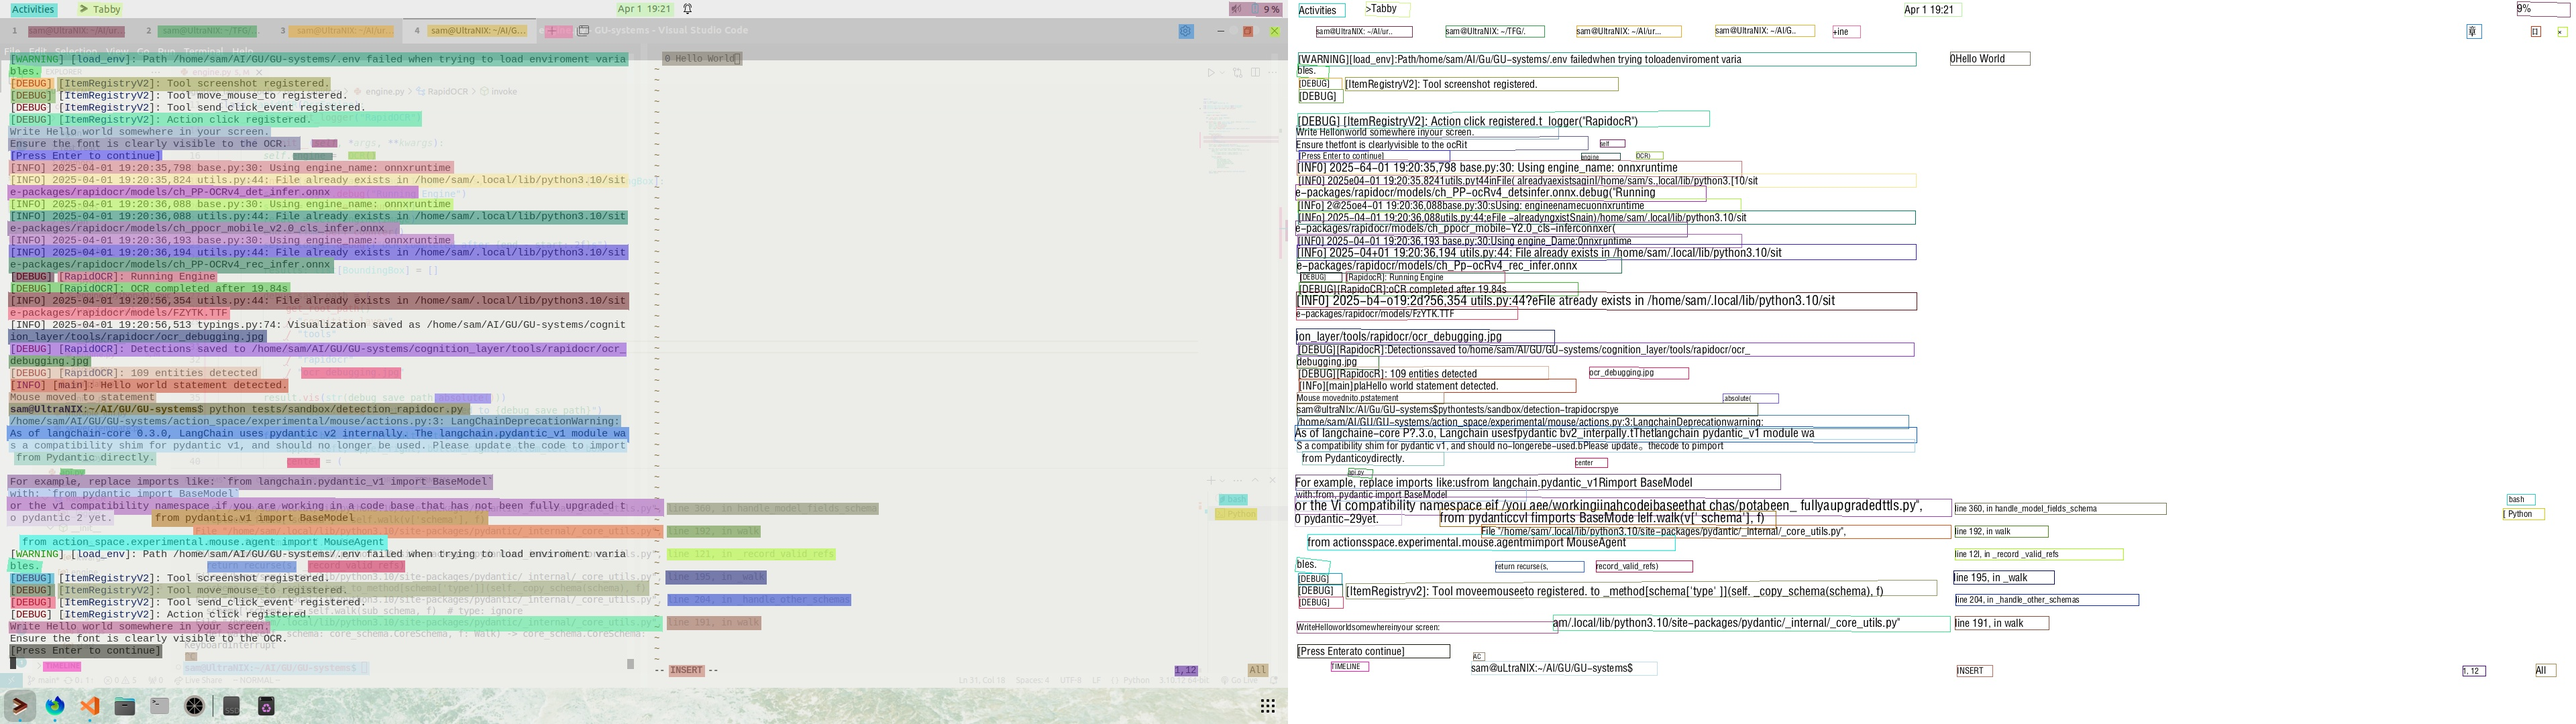
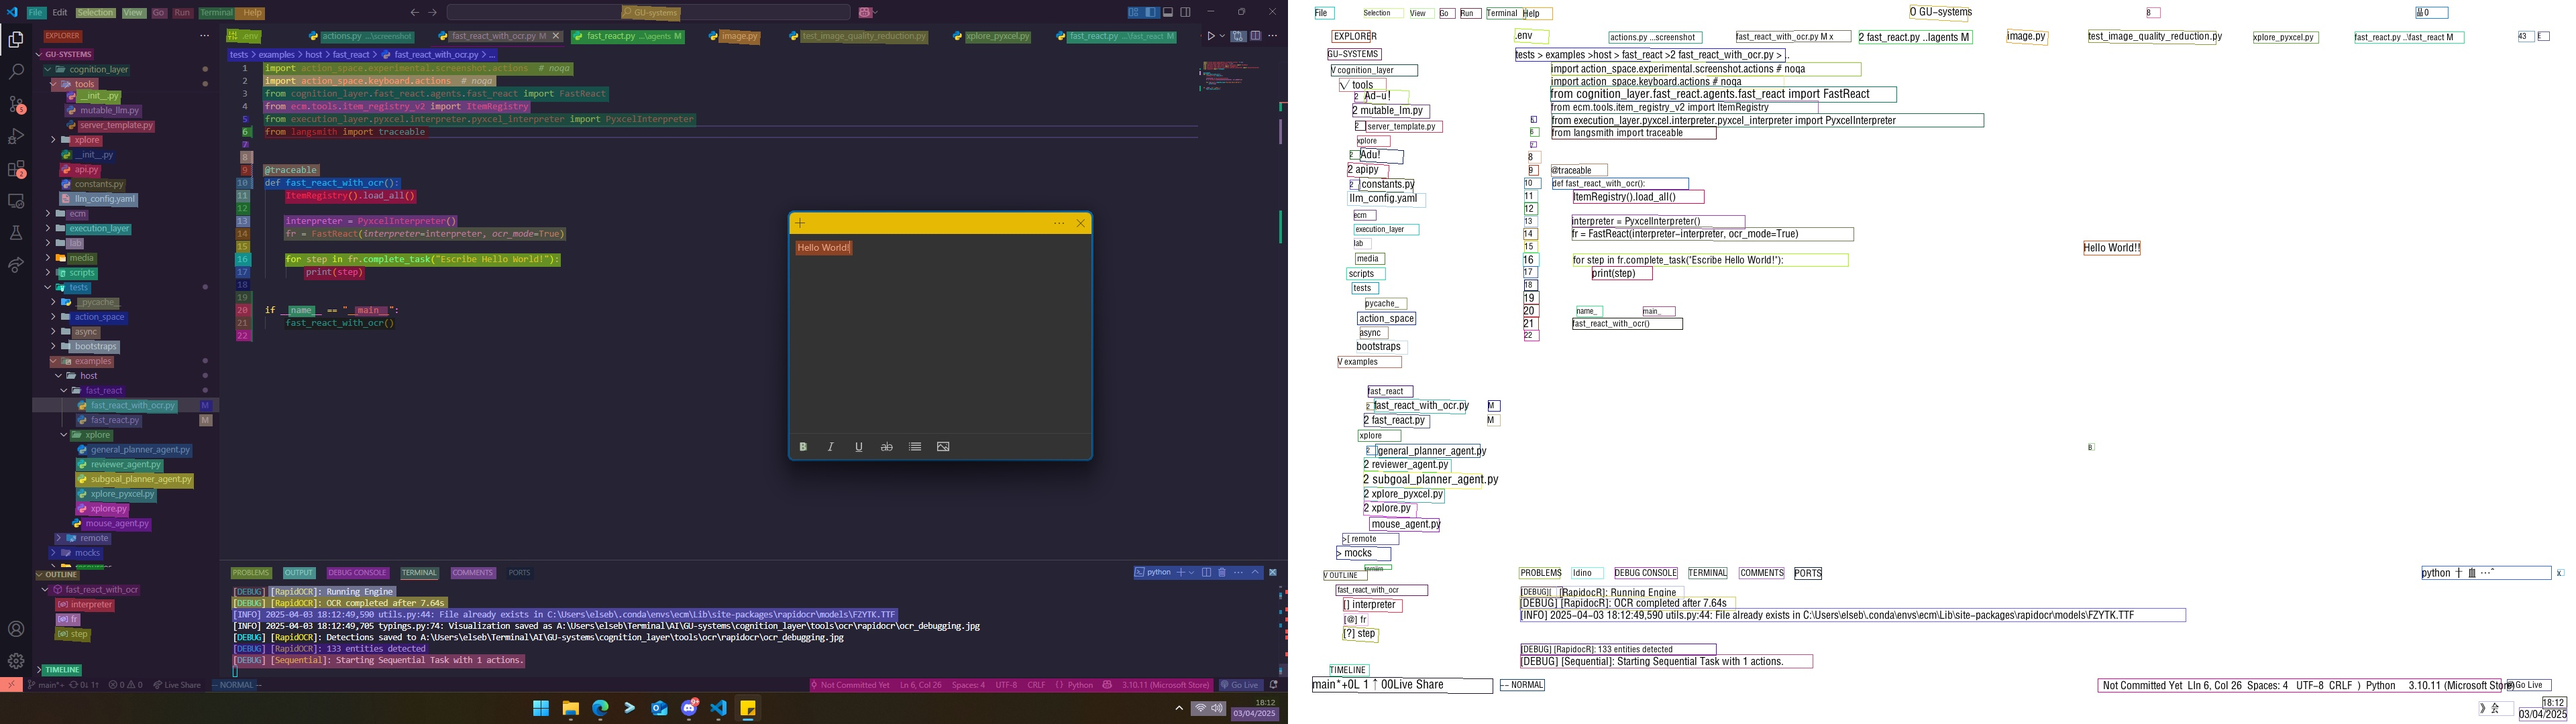
Added quality selection for ImageMessage

diff --git a/cognition_layer/fast_react/agents/fast_react.py b/cognition_layer/fast_react/agents/fast_react.py
@@ -15,6 +15,7 @@ from cognition_layer.fast_react.agents.prompt import FR_PROMPT
 from cognition_layer.memory.simple import SimpleCognitiveMemory
 from cognition_layer.planex.utils.format import format_tool
 from cognition_layer.tools.mutable_llm import MutableChatLLM
+from cognition_layer.tools.ocr.engine import OCR
 from dataclasses import dataclass
 from ecm.exelent.builder import ExelentBuilder
 from ecm.exelent.parser import ParsedTask
@@ -60,6 +61,8 @@ class FastReact:
         interpreter: Interpreter = None,
         registry: ItemRegistry = ItemRegistry(),
         memory_capacity: int = 10,
+        ocr_mode: bool = False,
+        ocr_image_period: int = 3,
     ):
         """
         Initializes the FastReact instance.
@@ -72,6 +75,13 @@ class FastReact:
         self.memory_capacity = memory_capacity
         self.interpreter = interpreter
         self.registry = registry
+        self.ocr_mode = ocr_mode
+        self._ocr_round = 0
+        self.ocr_image_period = ocr_image_period
+
+        self.ocr = None
+        if self.ocr_mode:
+            self.ocr = OCR()
 
     def get_formatted_actions(self) -> list[str]:
         """
@@ -99,9 +109,12 @@ class FastReact:
             "screenshot" in self.registry.tools
         ), "Screenshot tool must be loaded into the registry in order to use FastReact"
 
+        self._ocr_round = 0
+        keep_images = True if self.ocr_mode else False
+
         formatted_tools = "\n\n- ".join(self.get_formatted_actions())
         self.memory = SimpleCognitiveMemory(
-            keep_images=False,
+            keep_images=keep_images,
             capacity=self.memory_capacity,
             preserve=[
                 SystemMessage(content=FR_PROMPT),
@@ -118,11 +131,7 @@ class FastReact:
         num_actions = 0
         while not task_completed:
 
-            frame = load_image(self.registry.tools["screenshot"].content())
-            current_state = ImageMessage(
-                input="This is the current state", image=frame
-            ).as_human()
-
+            current_state = self._get_current_state()
             history = self.memory.messages + [current_state]
             response: DictFastReactResponse = self.chain.invoke(history)
 
@@ -136,6 +145,43 @@ class FastReact:
                 name="FastReact", content=str(response), is_last=task_completed
             )
             num_actions += 1
+
+    def _get_current_state(self) -> ImageMessage:
+        """
+        Retrieves the current state of the task.
+        :return: An ImageMessage representing the current state.
+        """
+        frame = load_image(self.registry.tools["screenshot"].content())
+
+        if self.ocr_mode:
+
+            labels = self.ocr.invoke(frame)
+
+            explained_labels = (
+                "This is my current state.\n"
+                + "Labels detected on screen:\n"
+                + "\n".join([f"- `{label.content}` at [{label.center}]" for label in labels])
+            )
+
+            if self._ocr_round == 0:
+                message = ImageMessage(
+                    input=explained_labels + "\nI append an image of my screen.",
+                    image=frame,
+                    detail="low",
+                ).as_human()
+            else:
+                message = HumanMessage(content=explained_labels)
+
+            self._ocr_round += 1
+            if self._ocr_round >= self.ocr_image_period:
+                self._ocr_round = 0
+
+            return message
+
+        current_state = ImageMessage(
+            input="This is the current state", image=frame
+        ).as_human()
+        return current_state
 
 
 # ======================= UTILITIES ============================

diff --git a/tests/examples/host/fast_react/fast_react_with_ocr.py b/tests/examples/host/fast_react/fast_react_with_ocr.py
@@ -8,15 +8,15 @@ from langsmith import traceable
 
 
 @traceable
-def fast_react():
+def fast_react_with_ocr():
     ItemRegistry().load_all()
 
     interpreter = PyxcelInterpreter()
-    fr = FastReact(interpreter=interpreter)
+    fr = FastReact(interpreter=interpreter, ocr_mode=True)
 
     for step in fr.complete_task("Escribe Hello World!"):
         print(step)
 
 
 if __name__ == "__main__":
-    fast_react()
+    fast_react_with_ocr()
